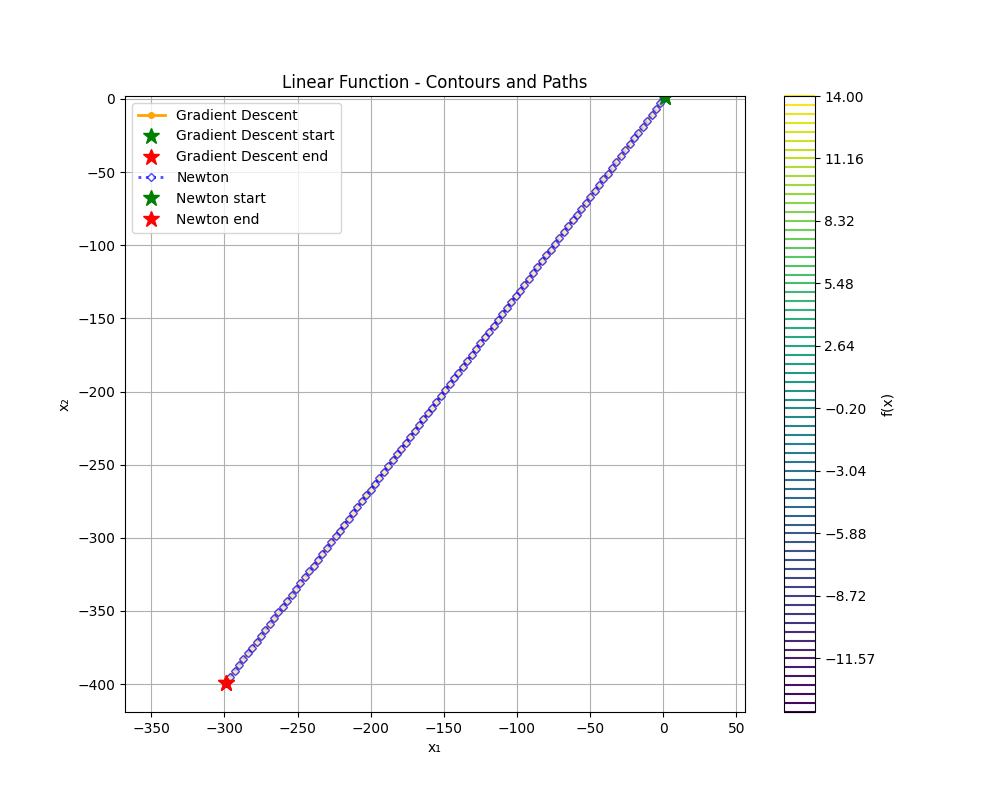
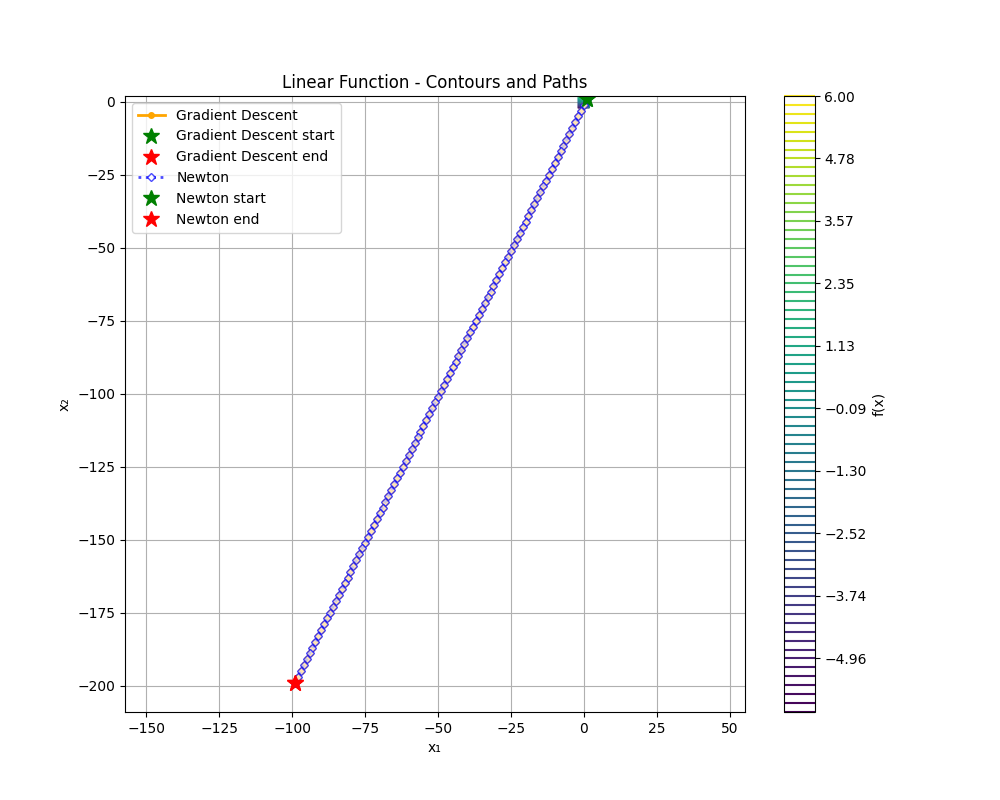
bugfixes

diff --git a/tests/test_unconstrained_min.py b/tests/test_unconstrained_min.py
@@ -24,21 +24,19 @@ class TestUnconstrainedMinimization(unittest.TestCase):
             print(f"Final x = {result.x_final}")
             print(f"Final f(x) = {result.f_final}")
             print(f"Gradient norm = {np.linalg.norm(result.gradient)}")
-            print(f"Success: {result.success}")
+            print(f"Converged: {result.success}")
             print(f"Termination reason: {result.result_reason}\n\n")
 
     def run_optimization_test(self, f, x0, title, xlim=(-2, 2), ylim=(-2, 2),
-                            max_iter_gd=None, max_iter_newton=None, debug=False):
+                            max_iter_gd=None, max_iter_newton=None, debug=True):
         if max_iter_gd is None:
             max_iter_gd = self.default_max_iter
         if max_iter_newton is None:
             max_iter_newton = self.default_max_iter
             
-        # Gradient Descent
         gd_optimizer = LineSearchOptimizer(method=SearchDirection.GRADIENT_DESCENT)
         gd_result = gd_optimizer.minimize(f, x0, self.obj_tol, self.param_tol, max_iter_gd, debug)
         
-        # Newton's Method
         newton_optimizer = LineSearchOptimizer(method=SearchDirection.NEWTON)
         newton_result = newton_optimizer.minimize(f, x0, self.obj_tol, self.param_tol, max_iter_newton, debug)
         
@@ -107,7 +105,6 @@ class TestUnconstrainedMinimization(unittest.TestCase):
         self.assertTrue(gd_result.success, "Gradient Descent failed to converge")
 
     def test_linear(self):
-        """Test linear function"""
         gd_result, newton_result = self.run_optimization_test(
             examples.linear,
             self.default_x0,
@@ -117,7 +114,6 @@ class TestUnconstrainedMinimization(unittest.TestCase):
         self.assertFalse(gd_result.success, "Gradient Descent failed to converge")
 
     def test_boyd_example(self):
-        """Test Boyd's example function"""
         results = self.run_optimization_test(
             examples.boyd_example,
             self.default_x0,

diff --git a/src/unconstrained_min.py b/src/unconstrained_min.py
@@ -118,14 +118,14 @@ class LineSearchOptimizer:
                 print(f"Iteration {i+1}: x = {x_new}, f(x) = {f_new}")
             
             if abs(f_new - f_x) < obj_tol:
-                return OptimizationResult(i, gradient, x_new, f_new, True, path, objective_values, f"Objective value convergence (|f_new - f_x| = {abs(f_new - f_x):.2e} < {obj_tol:.2e})")
+                return OptimizationResult(i + 1, gradient, x_new, f_new, True, path, objective_values, f"Objective value convergence (|f_new - f_x| = {abs(f_new - f_x):.2e} < {obj_tol:.2e})")
             
             if np.linalg.norm(x_new - x) < param_tol:
-                return OptimizationResult(i, gradient, x_new, f_new, True, path, objective_values, f"Parameter convergence (||x_new - x|| = {np.linalg.norm(x_new - x):.2e} < {param_tol:.2e})")
+                return OptimizationResult(i + 1, gradient, x_new, f_new, True, path, objective_values, f"Parameter convergence (||x_new - x|| = {np.linalg.norm(x_new - x):.2e} < {param_tol:.2e})")
             
             x = x_new
             f_x = f_new
             gradient = gradient_new
             hessian = hessian_new
         
-        return OptimizationResult(i, gradient, x, f_x, False, path, objective_values, f"Maximum iterations ({max_iter}) reached without convergence")
+        return OptimizationResult(i + 1, gradient, x, f_x, False, path, objective_values, f"Maximum iterations ({max_iter}) reached without convergence")

diff --git a/src/utils.py b/src/utils.py
@@ -75,13 +75,13 @@ def plot_objective_values(results: List[Tuple[str, OptimizationResult]], title: 
     plt.figure(figsize=(10, 6))
     
     for method_name, result in results:
-        iterations = range(len(result.objective_values))
+        iterations = range(result.iterations + 1)
         if 'Gradient' in method_name:
-            plt.semilogy(iterations, result.objective_values, 'o-', color='orange', 
-                        label=method_name, linewidth=5, markersize=8, 
+            plt.plot(iterations, result.objective_values, 'o-', color='orange', 
+                        label=method_name, linewidth=5 if result.iterations < 105 else 1, markersize=8 if result.iterations < 105 else 1, 
                         alpha=0.7, markerfacecolor='orange', markeredgecolor='orange')
         else:  # Newton's method
-            plt.semilogy(iterations, result.objective_values, 'o-', color='blue',
+            plt.plot(iterations, result.objective_values, 'o-', color='blue',
                         label=method_name, linewidth=2, markersize=6,
                         markerfacecolor='blue')
     

diff --git a/tests/examples.py b/tests/examples.py
@@ -61,7 +61,7 @@ def linear(x: np.ndarray, need_hessian: bool = False):
     f(x) = a.T @ x
     Using a = [1, 2] for this example
     """
-    a = np.array([3.0, 4.0])
+    a = np.array([1.0, 2.0])
     f = float(a @ x)
     g = a
     h = np.zeros((2, 2)) if need_hessian else None
